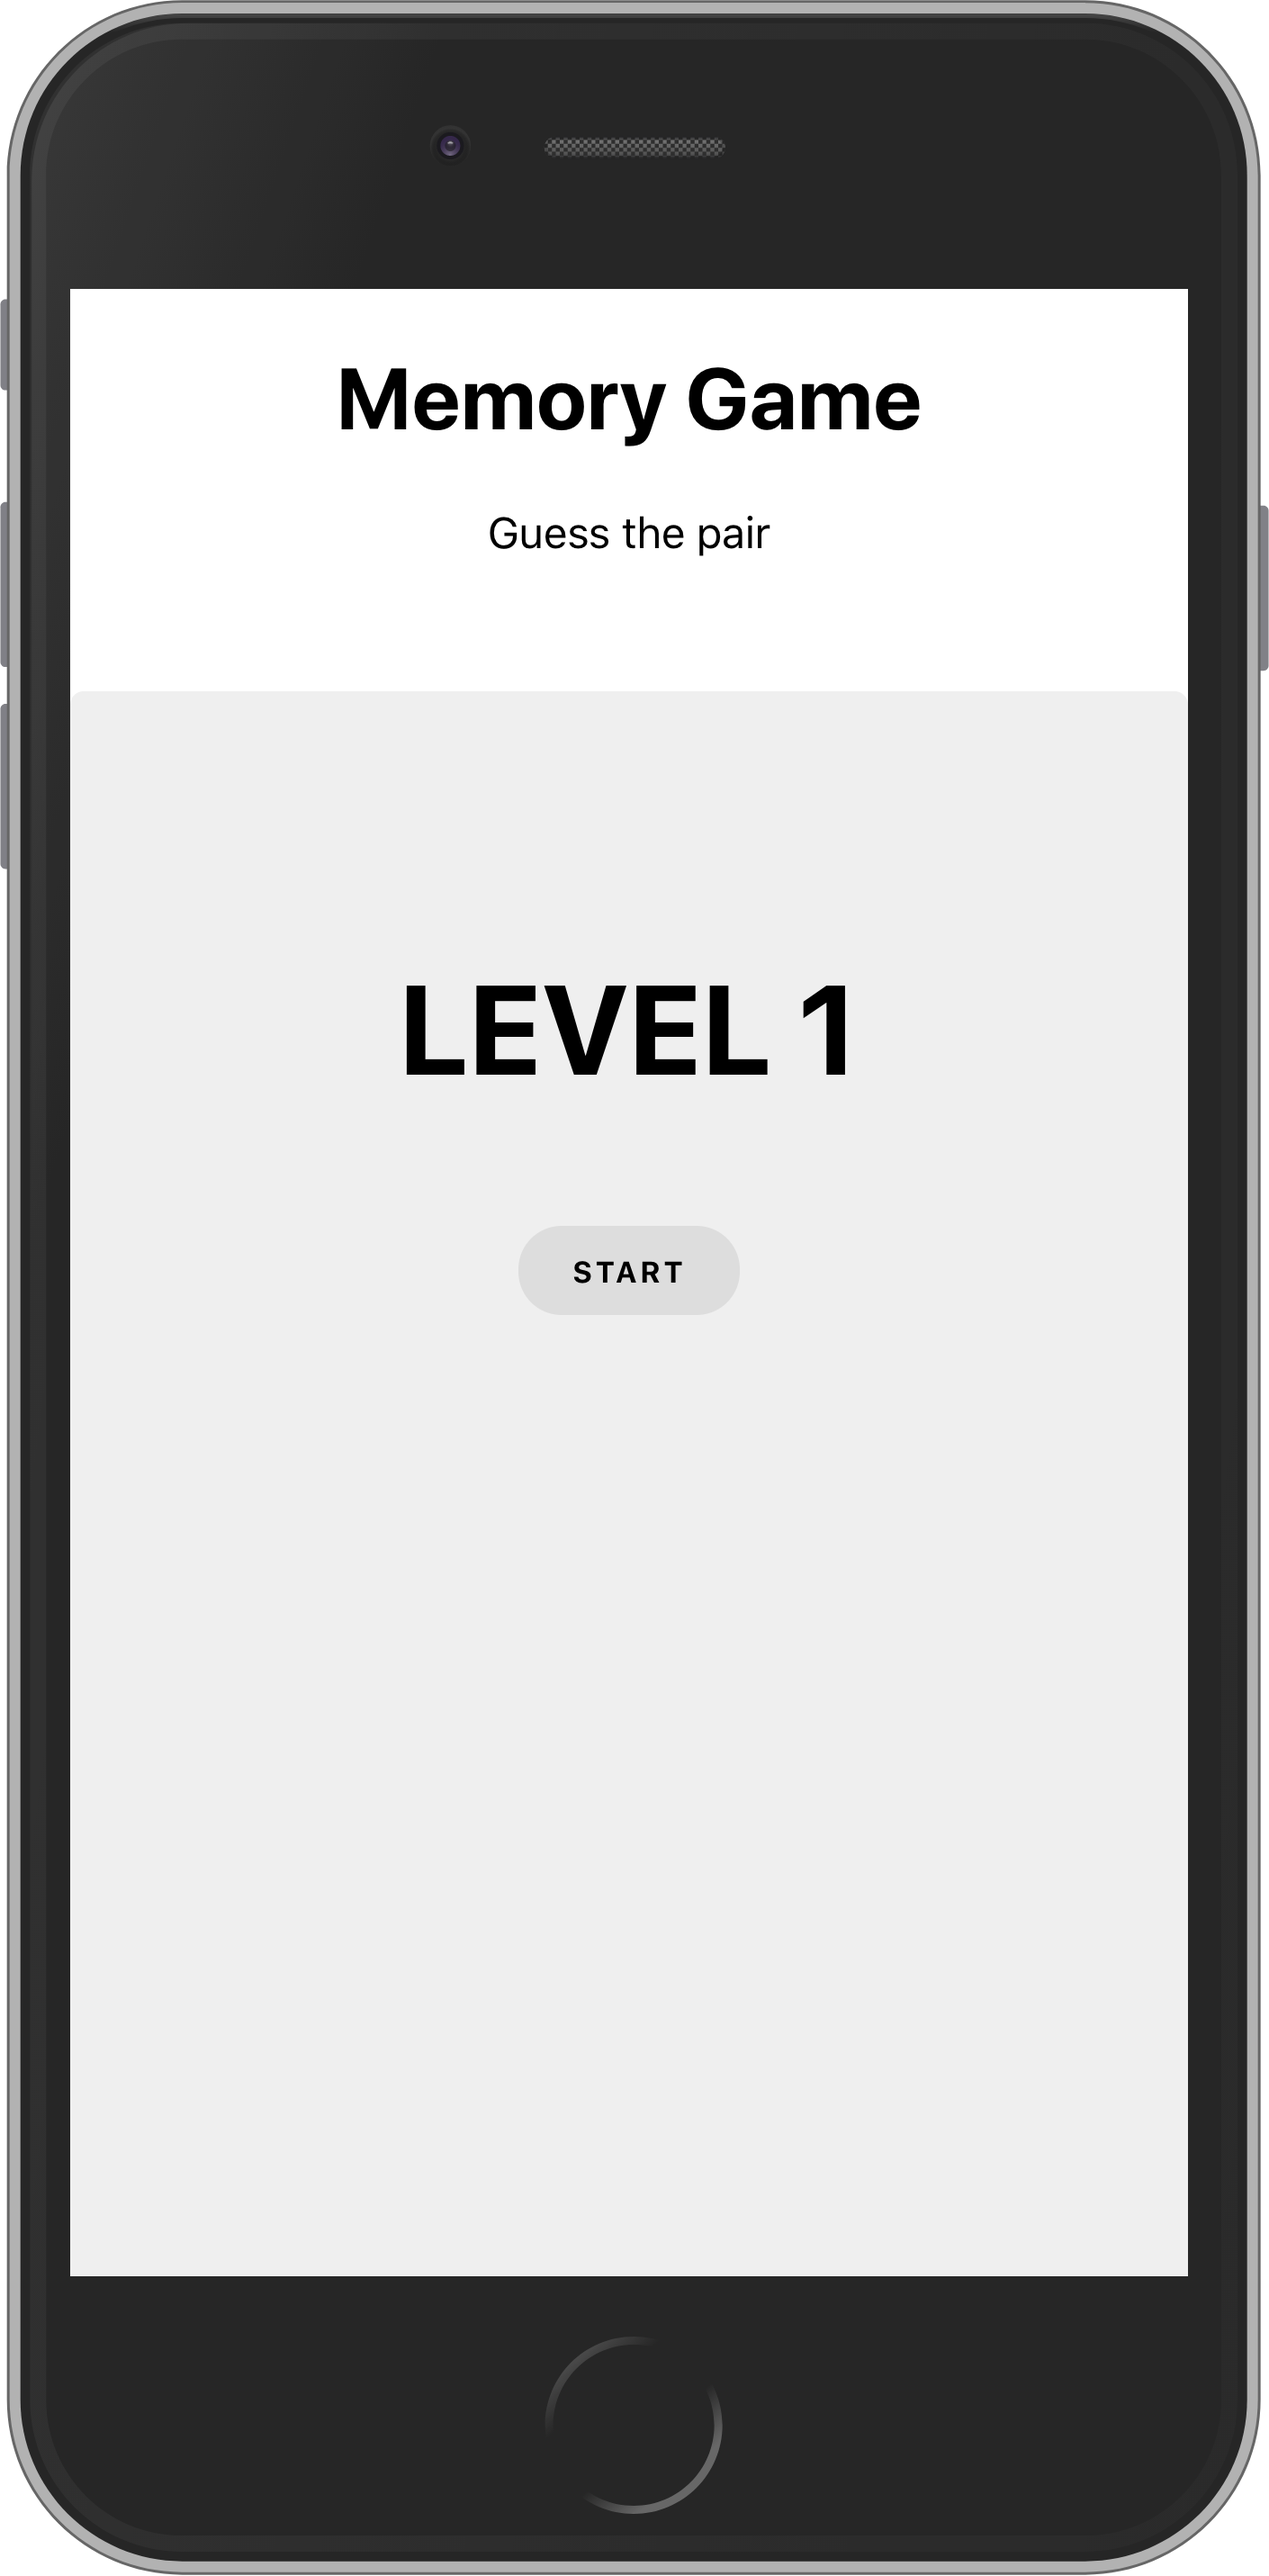
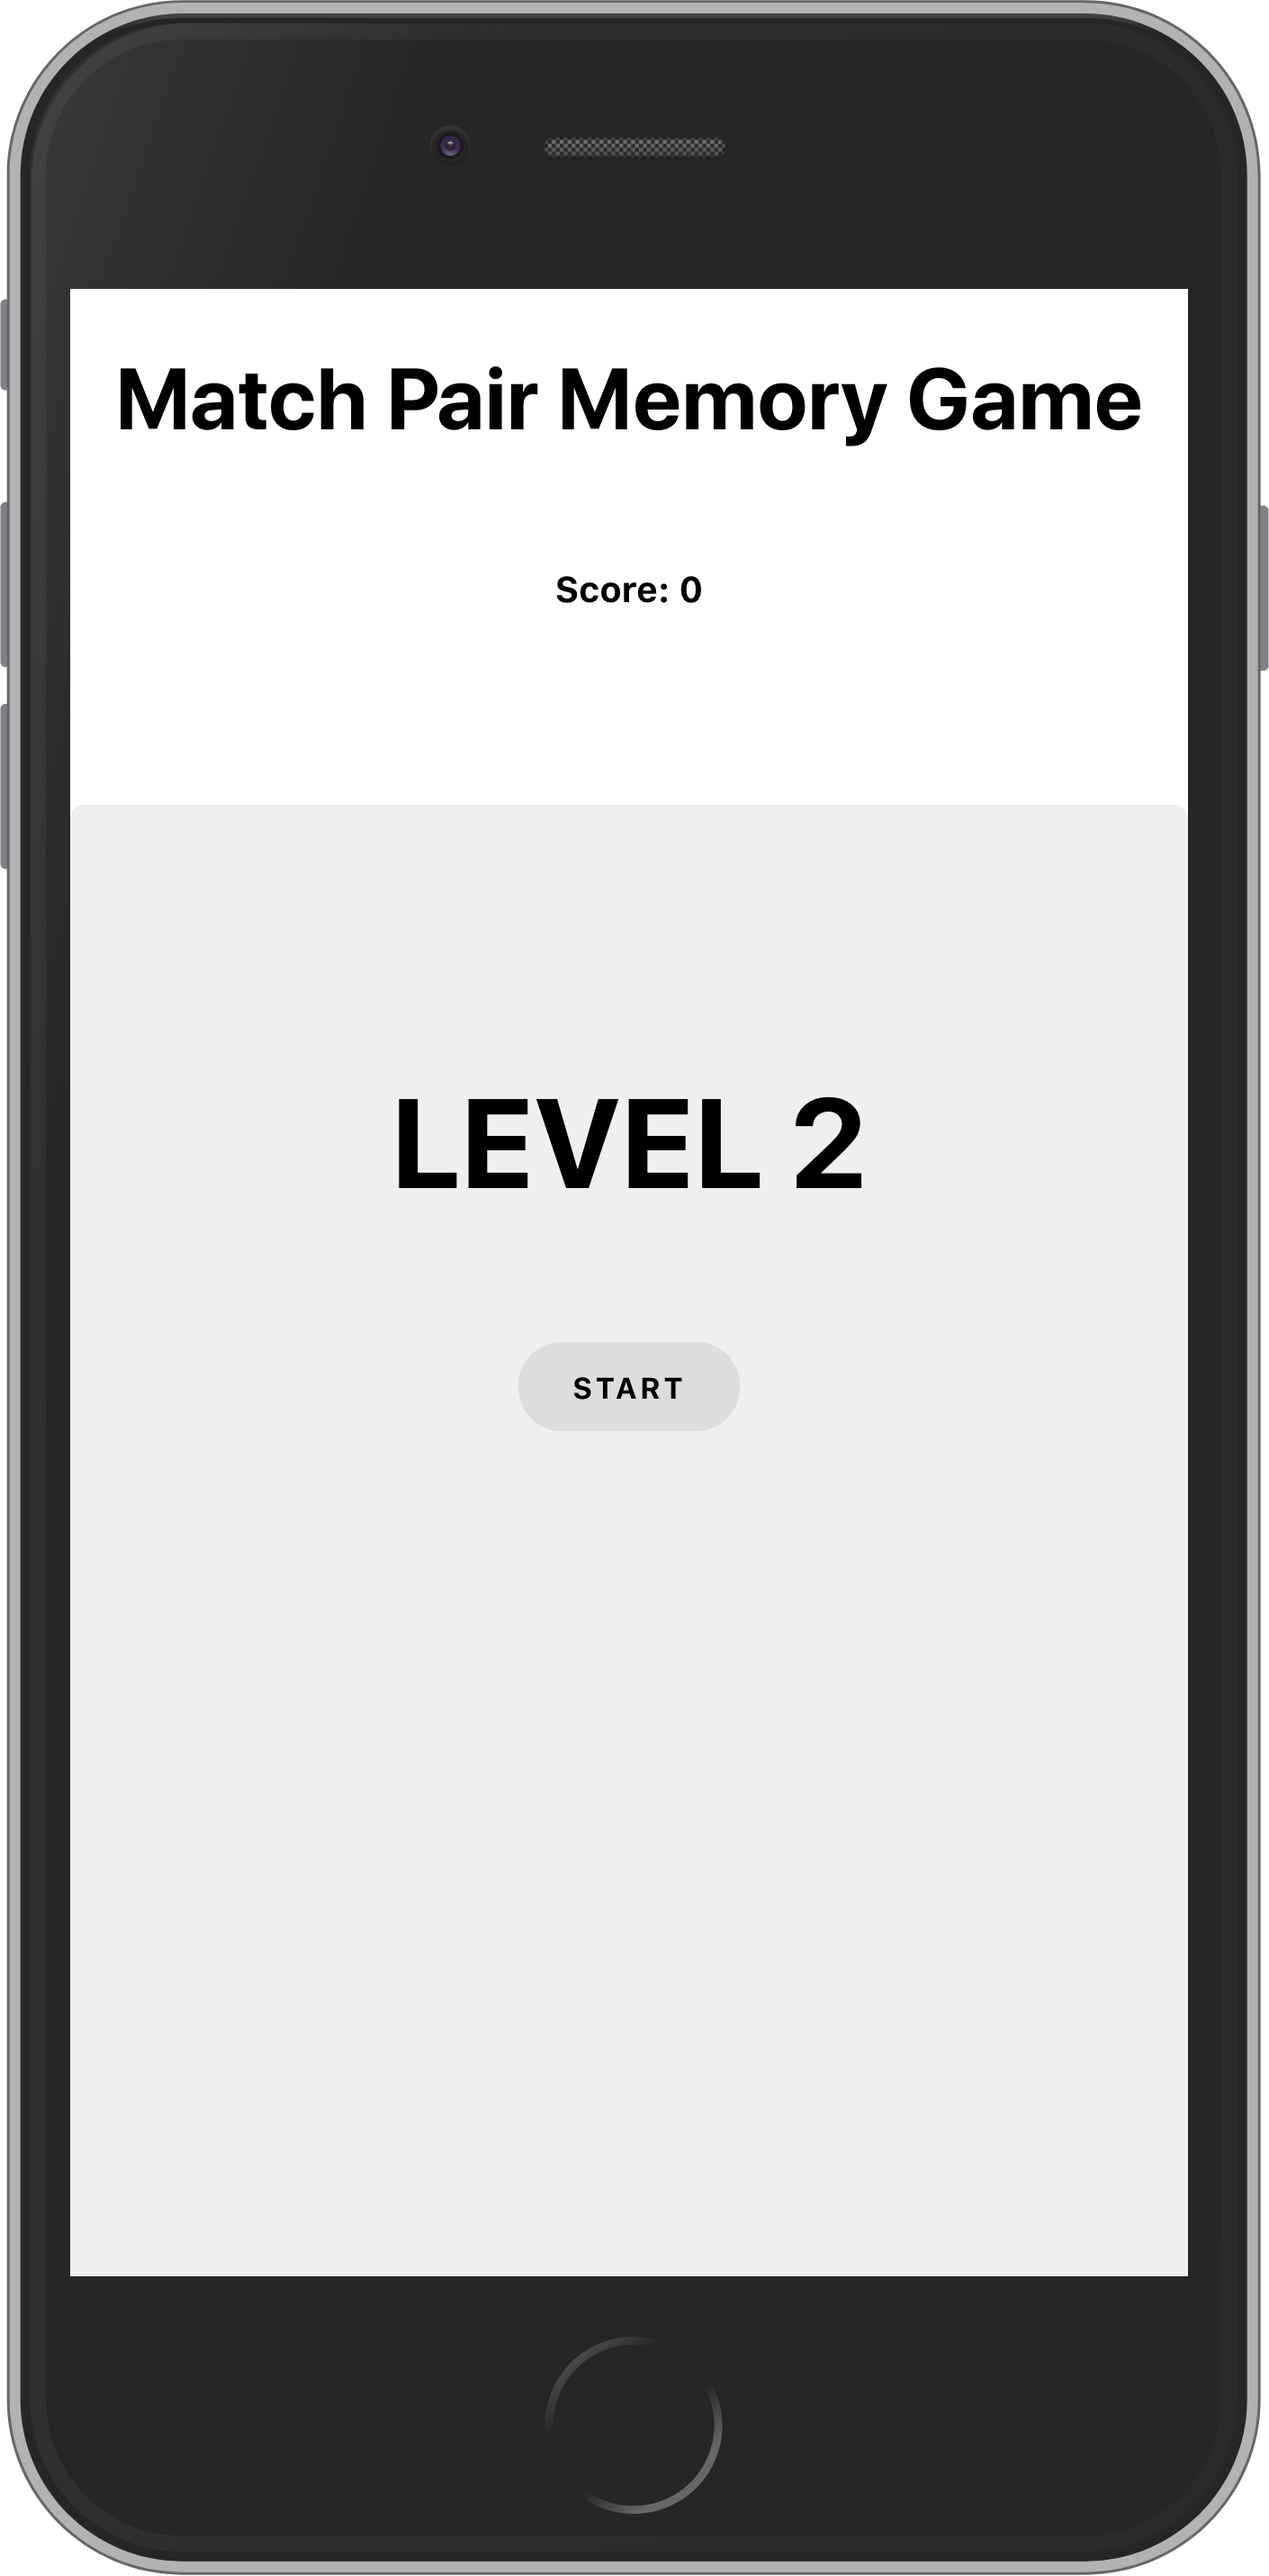
first commit

diff --git a/src/App.js b/src/App.js
@@ -25,7 +25,7 @@ class App extends Component {
     super(context, props);
 
     this.state = {
-      gridSize: 4,
+      gridSize: 6,
       originalImageArray: [
         happy, angry, lol, cool, evil, love, kiss, neutral, puzzled, sad, surprised, tongue, wink, face, hand, swearing, drama, comedy
       ],
@@ -38,7 +38,9 @@ class App extends Component {
       start: true,
       success: true,
       disbleClick: false,
-      level: 1
+      level: 2,
+      score: 0,
+      maxScore: 0
     };
 
   }
@@ -46,10 +48,11 @@ class App extends Component {
   componentDidMount() {
     let localData = JSON.parse(localStorage.getItem('memory-game-level'));
     if (localData) {
-      let {level, gridSize} = localData;
+      let {level, gridSize,maxScore} = localData;
       this.setState({
         level,
-        gridSize
+        gridSize,
+        maxScore
       });
     }
   }
@@ -137,7 +140,8 @@ class App extends Component {
   onItemClick(context) {
     let position = context.target.id;
     
-    let {activeArray,lastActive,gridArray,lastActivePosition,guessCount,imageArray,success,disbleClick} = this.state;
+    let {activeArray,lastActive,gridArray,lastActivePosition,guessCount,
+      imageArray,success,score,disbleClick,level,gridSize,maxScore} = this.state;
 
     let gridArrayValue = gridArray[position];
 
@@ -153,6 +157,7 @@ class App extends Component {
           guessCount++;
           lastActive = -1;
           lastActivePosition = -1;
+          score += 20;
 
           success = guessCount === imageArray.length;
 
@@ -161,12 +166,16 @@ class App extends Component {
           activeArray[position] = true;
           disbleClick = true;
 
+          if (score >= 5) {
+            score -= 5;
+          }
+
           setTimeout(function() {
             activeArray[lastActivePosition] = false;
             activeArray[position] = false;
             disbleClick = false;
             lastActive = -1;
-            lastActivePosition = -1
+            lastActivePosition = -1;
 
             this.setState({
               activeArray,
@@ -178,13 +187,21 @@ class App extends Component {
         }
       }
 
+      if (success) {
+        if (maxScore < score) {
+          maxScore = score;
+        }
+        localStorage.setItem('memory-game-level', JSON.stringify({level, gridSize, maxScore}));
+      }
+
       this.setState({
         activeArray,
         lastActive,
         lastActivePosition,
         guessCount,
         success,
-        disbleClick
+        disbleClick,
+        score
       });
     }
   }
@@ -205,10 +222,14 @@ class App extends Component {
   }
 
   onLevelUp() {
-    let {level, gridSize} = this.state;
+    let {level, gridSize,score,maxScore} = this.state;
     level++;
     gridSize += 2;
 
+    if (maxScore < score) {
+      maxScore = score;
+    }
+
     this.setState({
       imageArray: [],
       gridSize: gridSize,
@@ -220,18 +241,24 @@ class App extends Component {
       guessCount: 0,
       start: false,
       success: false,
-      disbleClick: false
+      disbleClick: false,
+      score: 0,
+      maxScore
     }, function() {
       this.resetComponent();
     });
 
-    localStorage.setItem('memory-game-level', JSON.stringify({level, gridSize}));
+    localStorage.setItem('memory-game-level', JSON.stringify({level, gridSize, maxScore}));
   }
 
   onLevelDown() {
-    let {level, gridSize} = this.state;
+    let {level, gridSize, score, maxScore} = this.state;
     level--;
     gridSize -= 2;
+
+    if (maxScore < score) {
+      maxScore = score;
+    }
 
     this.setState({
       imageArray: [],
@@ -244,16 +271,24 @@ class App extends Component {
       guessCount: 0,
       start: false,
       success: false,
-      disbleClick: false
+      disbleClick: false,
+      score: 0,
+      maxScore
     }, function() {
       this.resetComponent();
     });
 
-    localStorage.setItem('memory-game-level', JSON.stringify({level, gridSize}));
+    localStorage.setItem('memory-game-level', JSON.stringify({level, gridSize, maxScore}));
   }
 
   render() {
-    let {gridSize,gridArray,imageArray,activeArray,success,start,level} = this.state;
+    let {gridSize,gridArray,imageArray,activeArray,success,start,level,maxScore,score} = this.state;
+    
+    let maxScoreComponent = null;
+    if (maxScore && maxScore > 0) {
+      maxScoreComponent = (<h5>Max Score: {maxScore}</h5>);
+    }
+    
     let finalComponent = null;
     
     let levelUpComponent = null;
@@ -308,8 +343,13 @@ class App extends Component {
 
     return (
       <div className="App">
-        <h1>Memory Game</h1>
-        <span>Guess the pair</span>
+        <h1>Match Pair Memory Game</h1>
+        <div className="score-parent-div">
+          <div className="score-div">
+            { maxScoreComponent }
+            <h5>Score: { score }</h5>
+          </div>
+        </div>
         <div className="game-div">
           <div className="parent-grid">
             { finalComponent }

diff --git a/src/index.css b/src/index.css
@@ -87,6 +87,22 @@ code {
   margin-right: 10px;
 }
 
+.score-parent-div {
+  display: flex;
+  flex-direction: column;
+  align-items: center;
+}
+
+.score-div {
+  width: 30%;
+  display: flex;
+  justify-content: center;
+}
+
+.score-div h5 {
+  width: 50%;
+}
+
 @media screen and (max-width: 500px) {
   .parent-grid {
     width: 100%;
@@ -107,5 +123,9 @@ code {
     width: 30px;
     height: 30px;
     padding: 6px 8px;
+  }
+
+  .score-div {
+    width: 100%;
   }
 }
